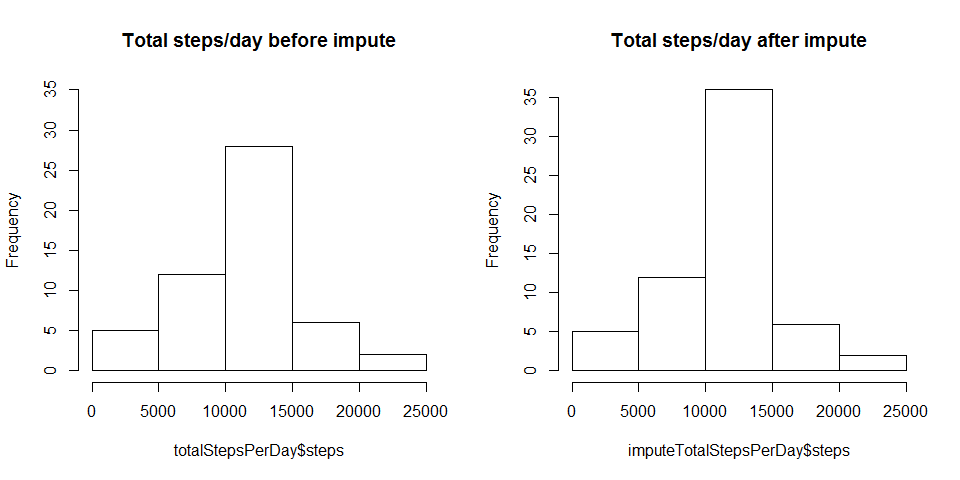
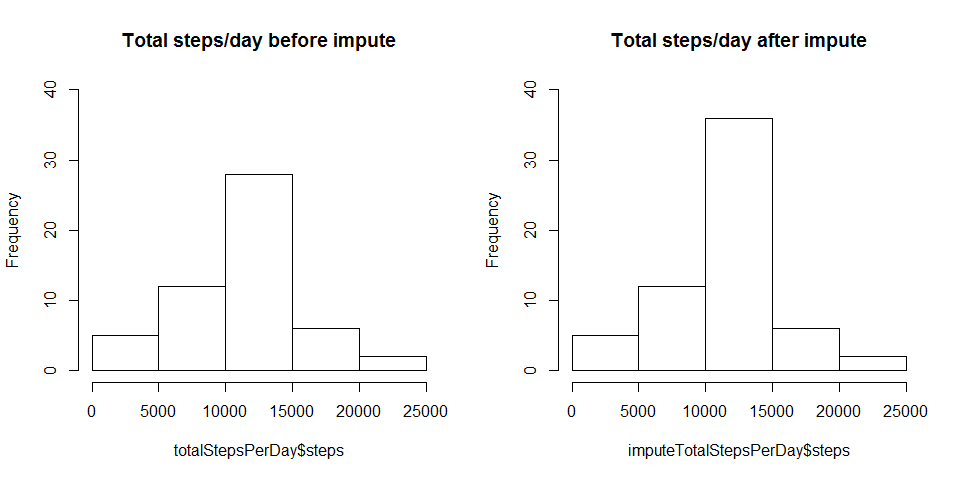
Files for Wk1 assignment

diff --git a/PA1_template.html b/PA1_template.html
@@ -176,9 +176,9 @@ plot(avgActivity$interval, avgActivity$steps, col = &quot;red&quot;, type= &quot
 <pre class="r"><code>imputeTotalStepsPerDay &lt;- aggregate(steps ~ date, imputeActivity, sum)
 
 par(mfrow=c(1,2))
-hist(totalStepsPerDay$steps, ylim = c(0,35), main = &quot;Total steps/day before impute&quot;)
-hist(imputeTotalStepsPerDay$steps, main = &quot;Total steps/day after impute&quot;)</code></pre>
[1 lines of base64/hex data omitted]
+hist(totalStepsPerDay$steps, ylim = c(0,40), main = &quot;Total steps/day before impute&quot;)
+hist(imputeTotalStepsPerDay$steps, ylim = c(0,40), main = &quot;Total steps/day after impute&quot;)</code></pre>
[1 lines of base64/hex data omitted]
 <p>Imputing the missing values shows a significant increase in the frequency of observations in the 10k - 15k range of steps while the other ranges are not significantly affected.</p>
 <p>Mean and median number of steps taken each day after impute:</p>
 <p>Mean</p>

diff --git a/PA1_template.md b/PA1_template.md
@@ -130,8 +130,8 @@ Histogram of the total number of steps taken each day after missing values are i
 imputeTotalStepsPerDay <- aggregate(steps ~ date, imputeActivity, sum)
 
 par(mfrow=c(1,2))
-hist(totalStepsPerDay$steps, ylim = c(0,35), main = "Total steps/day before impute")
-hist(imputeTotalStepsPerDay$steps, main = "Total steps/day after impute")
+hist(totalStepsPerDay$steps, ylim = c(0,40), main = "Total steps/day before impute")
+hist(imputeTotalStepsPerDay$steps, ylim = c(0,40), main = "Total steps/day after impute")
 ```
 
 ![](PA1_template_files/figure-html/unnamed-chunk-13-1.png)
